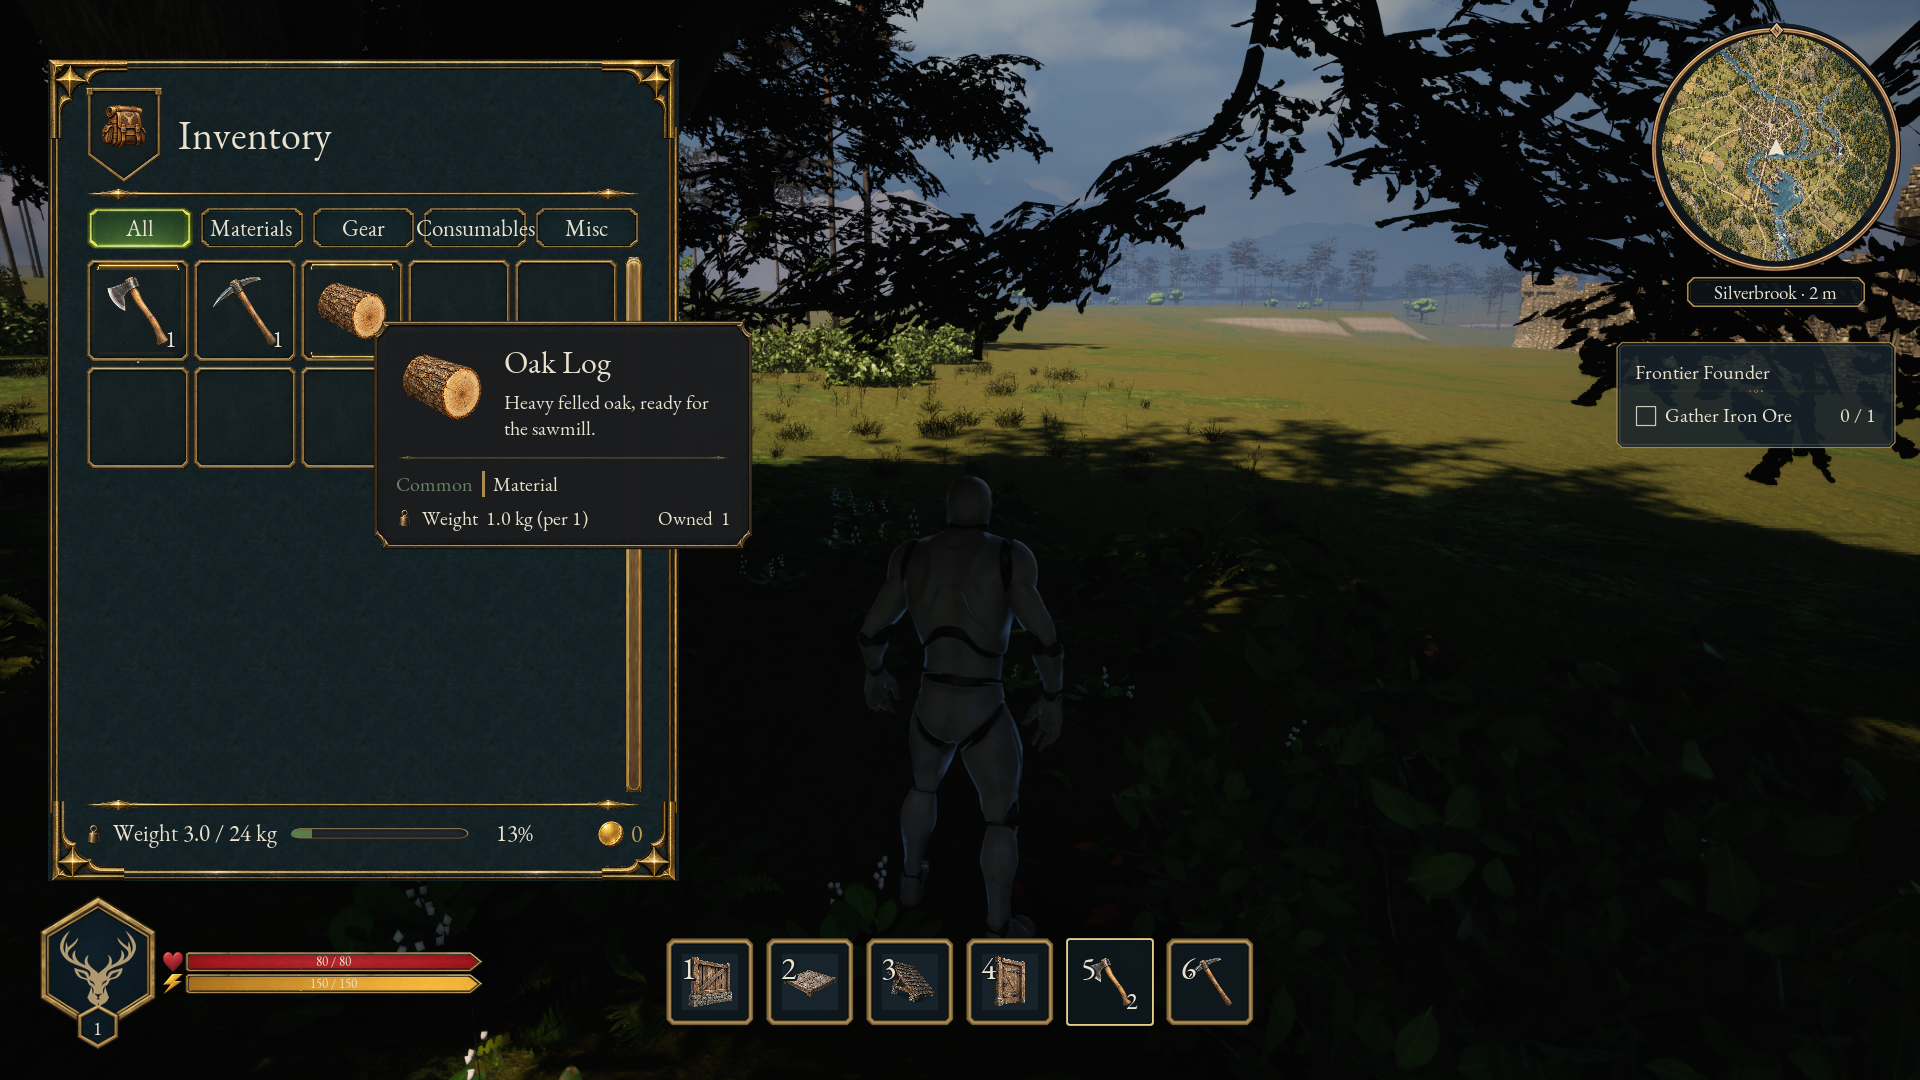
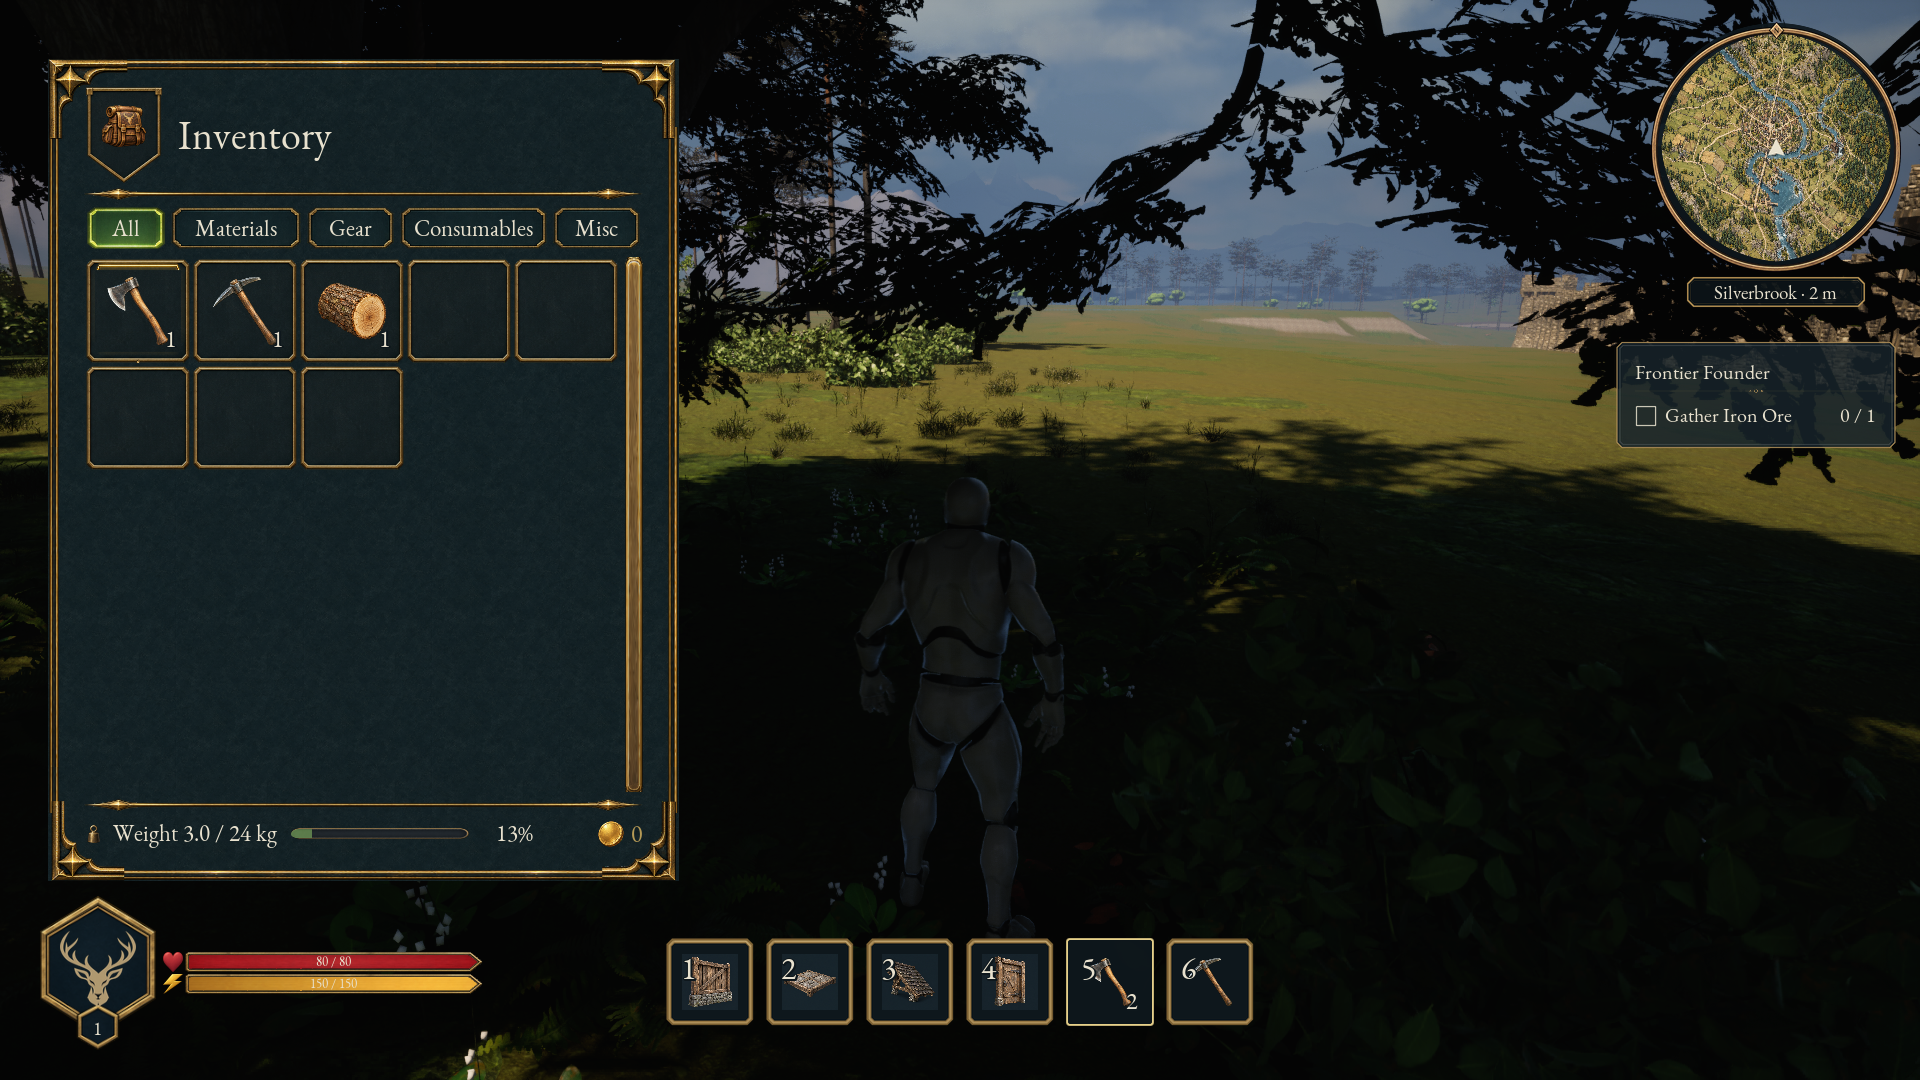
Tabs: width shared by label length, labels shrink to fit instead of overflowing

Changed region(s): [[0.1562, 0.275, 0.4062, 0.5194], [0.0625, 0.1833, 0.3125, 0.2444]]

diff --git a/GameClient/Source/ShatteredFrontier/Private/UI/SFUiWidgets.cpp b/GameClient/Source/ShatteredFrontier/Private/UI/SFUiWidgets.cpp
@@ -252,7 +252,14 @@ void USFTabBarWidget::SetTabs(const TArray<FSFTabSpec>& Specs)
         if (Spec.Icon.GetResourceObject()) { Tab->SetIcon(Spec.Icon); }
         Tab->OnClicked.AddDynamic(this, &USFTabBarWidget::HandleTab);
         UPanelSlot* PanelSlot = TabRow->AddChild(Tab);
-        if (UHorizontalBoxSlot* Cell = Cast<UHorizontalBoxSlot>(PanelSlot)) { Cell->SetSize(FSlateChildSize(ESlateSizeRule::Fill)); Cell->SetPadding(TabPadding); }
+        // Width shared by label length, so "Consumables" gets more room than "All"; the WBP_Tab label shrinks if it still cannot fit.
+        if (UHorizontalBoxSlot* Cell = Cast<UHorizontalBoxSlot>(PanelSlot))
+        {
+            FSlateChildSize Size(ESlateSizeRule::Fill);
+            Size.Value = 6 + Spec.Label.ToString().Len();  // the constant keeps short tabs from getting too narrow
+            Cell->SetSize(Size);
+            Cell->SetPadding(TabPadding);
+        }
         Tabs.Add(Tab);
     }
     SelectTab(Tabs.IsEmpty() ? INDEX_NONE : 0, false);

diff --git a/GameClient/Source/ShatteredFrontier/Private/UI/SFWidgetAuthoring.cpp b/GameClient/Source/ShatteredFrontier/Private/UI/SFWidgetAuthoring.cpp
@@ -636,7 +636,12 @@ void KitTabLayout(UWidgetTree* T)
     Stack->AddChildToVerticalBox(Sized(T, nullptr, N<UImage>(T, TEXT("TabIcon")), 44.f, 44.f))->SetHorizontalAlignment(HAlign_Center);
     UTextBlock* Label = SizedText(T, TEXT("Label"), TEXT("Tab"), 34.f);
     Label->SetJustification(ETextJustify::Center);
-    Stack->AddChildToVerticalBox(Label)->SetHorizontalAlignment(HAlign_Center);
+    // A label longer than its tab shrinks to fit instead of spilling over the border (never grows past its set size).
+    UScaleBox* Fit = A<UScaleBox>(T);
+    Fit->SetStretch(EStretch::ScaleToFit);
+    Fit->SetStretchDirection(EStretchDirection::DownOnly);
+    Fit->SetContent(Label);
+    Stack->AddChildToVerticalBox(Fit)->SetHorizontalAlignment(HAlign_Fill);
     UBorder* Pad = Plain(T, nullptr, FMargin(12.f, 8.f));
     Pad->SetVerticalAlignment(VAlign_Center); Pad->SetHorizontalAlignment(HAlign_Center);
     Pad->SetContent(Stack);
